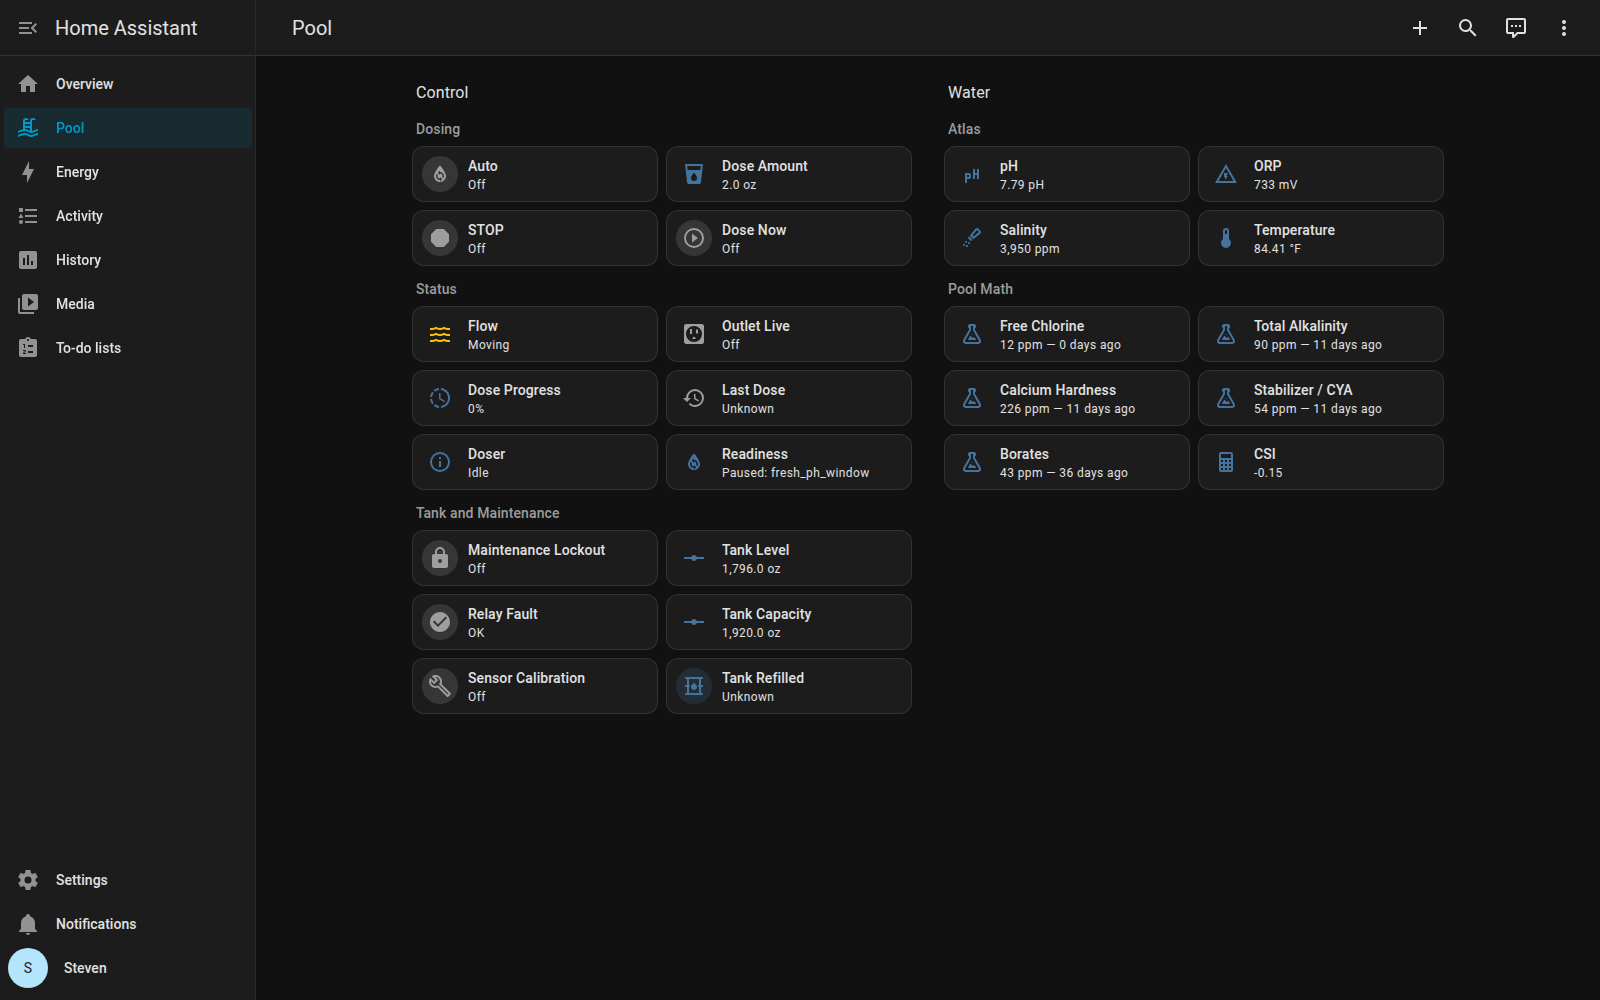
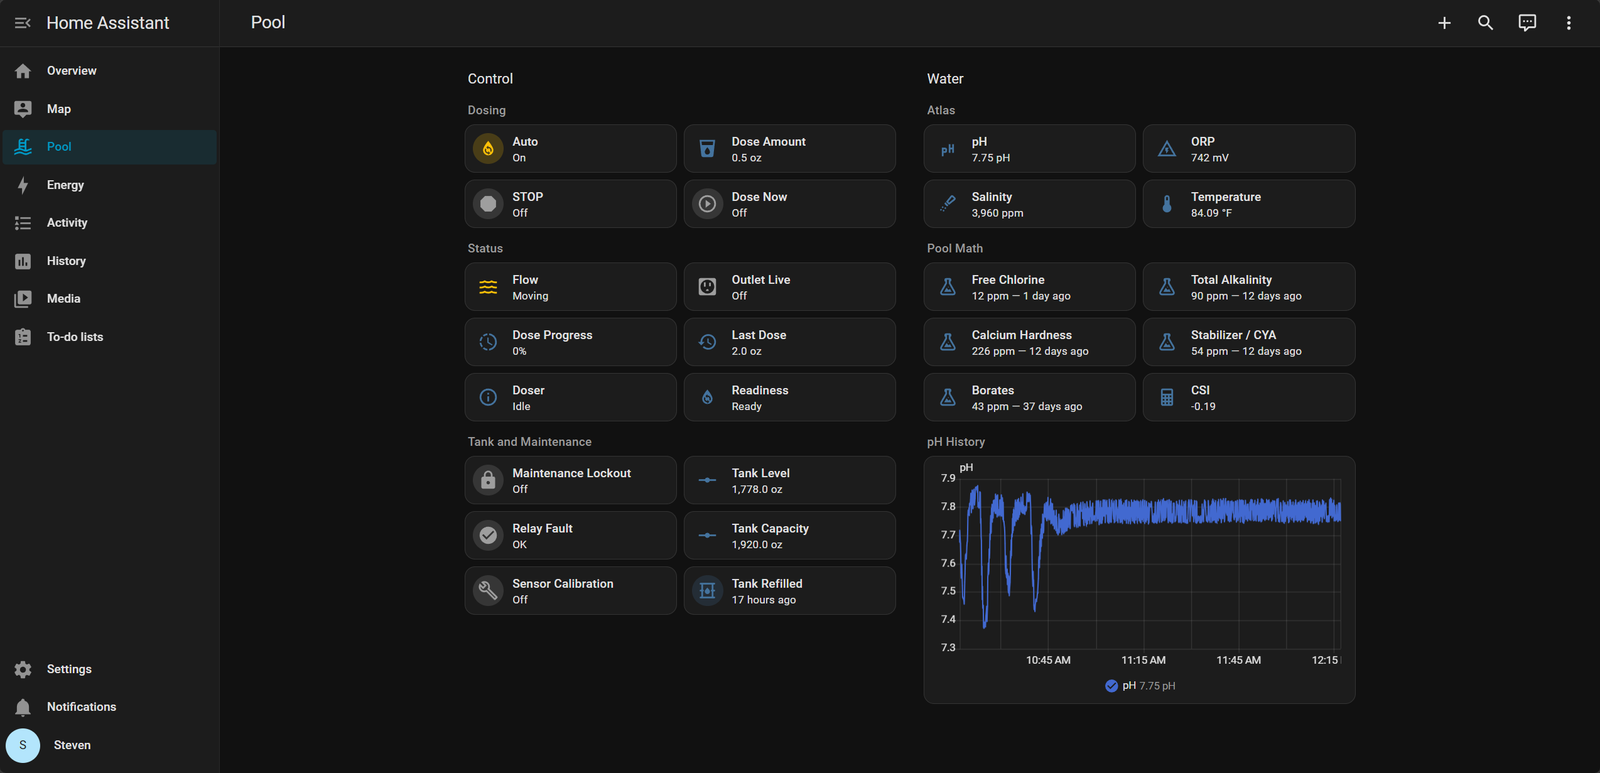
Add two-hour pH chart to Pool dashboard

diff --git a/home-assistant/README.md b/home-assistant/README.md
@@ -2,7 +2,8 @@
 
 Everything Home Assistant needs is in this repository. These steps add a
 **Pool** dashboard to the sidebar: grouped controls and doser status on the
-left, water readings on the right, every tile in a fixed order. They add files and
+left, water readings and a two-hour pH chart on the right, every tile in a
+fixed order. They add files and
 dashboards only; your existing dashboards, default screen and settings stay as
 they are.
 
@@ -84,10 +85,11 @@ first, you can optionally set it as the default under **Settings → Dashboards*
 **Control** has three groups: **Dosing** (Auto, STOP, Dose Amount, Dose Now),
 **Status** (flow, outlet live, dose progress, last delivered dose, doser
 status, readiness) and **Tank and Maintenance** (maintenance lockout, relay
-fault and sensor calibration beside tank level, capacity and refilled). **Water** has two groups: **Atlas**, the four live
-readings (pH, ORP, salinity, temperature), and **Pool Math**, the tests (free chlorine,
+fault and sensor calibration beside tank level, capacity and refilled). **Water** has three groups: **Atlas**, the four live
+readings (pH, ORP, salinity, temperature); **Pool Math**, the tests (free chlorine,
 total alkalinity, calcium hardness, stabilizer, borates) with their test age, and
-CSI last.
+CSI last; and **pH History**, a chart of the last two hours of Atlas pH from
+Home Assistant's recorder.
 
 | Tile | Tap | Icon |
 | --- | --- | --- |

diff --git a/README.md b/README.md
@@ -62,7 +62,7 @@ builds for clients.
 | --- | --- | --- |
 | **Atlas Pool Kit** | ESP32-S3 sensor with Atlas Scientific EZO circuits. Measures the water, shows it on a small screen and publishes it to Home Assistant over MQTT. Monitor only; it never commands the doser. | [Atlas Pool Kit](atlas-pool-kit/README.md) |
 | **Pool Doser** | Drives a Stenner peristaltic pump. A Wi-Fi Master and an RS485 Slave each control one of two series contactors, with flow, relay-proving, runtime and communication interlocks on every dose. | [Pool Doser](pool-doser/README.md) |
-| **Home Assistant** | A package and a **Pool** dashboard that add Auto, STOP, manual doses, a tank estimate, live readings and guided calibration. Setup only adds; it never changes your existing dashboards. | [Setup guide](home-assistant/README.md) |
+| **Home Assistant** | A package and a **Pool** dashboard that add Auto, STOP, manual doses, a tank estimate, live readings, a two-hour pH chart and guided calibration. Setup only adds; it never changes your existing dashboards. | [Setup guide](home-assistant/README.md) |
 | **Pool Math** *(optional)* | Pulls your test results from a [Pool Math](https://www.troublefreepool.com/) share link and calculates a live CSI from the Atlas readings. | [Pool Math](home-assistant/pool-math.md) |
 
 ## See it
